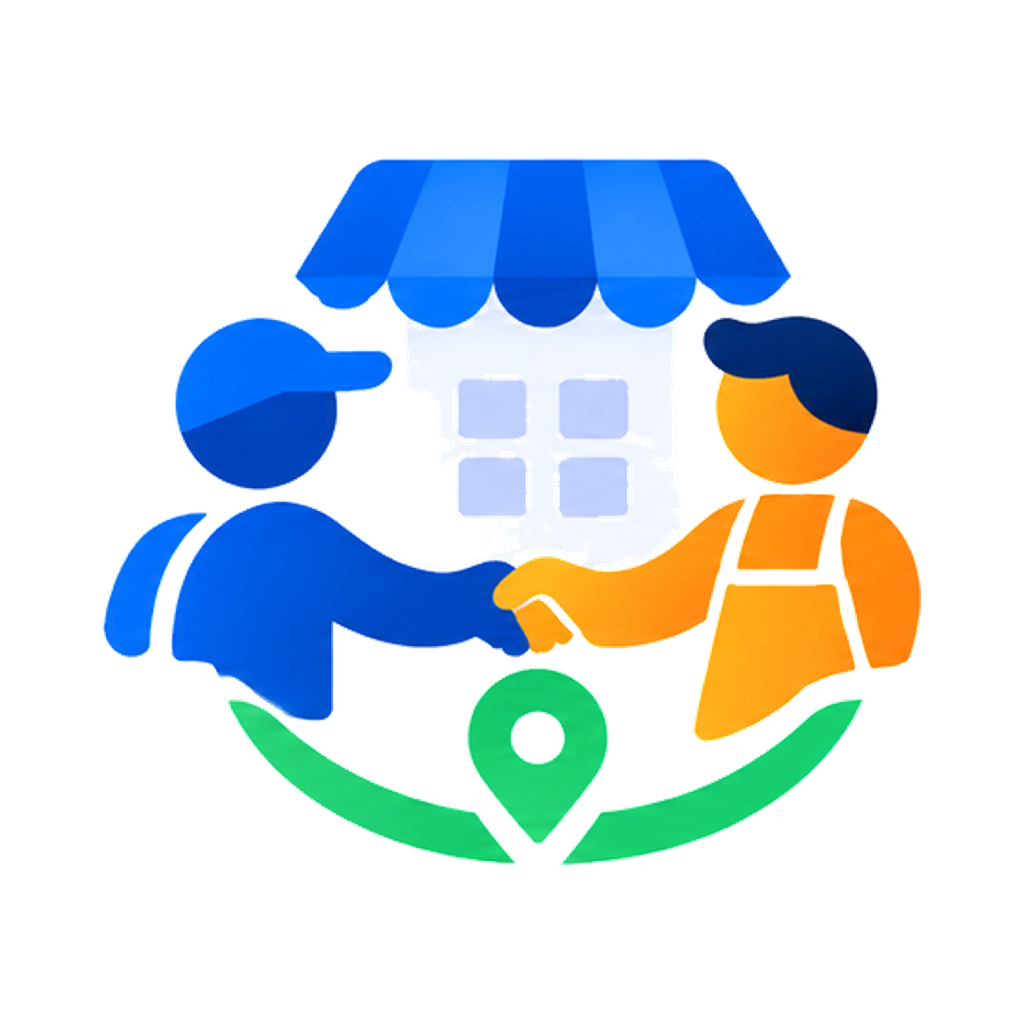
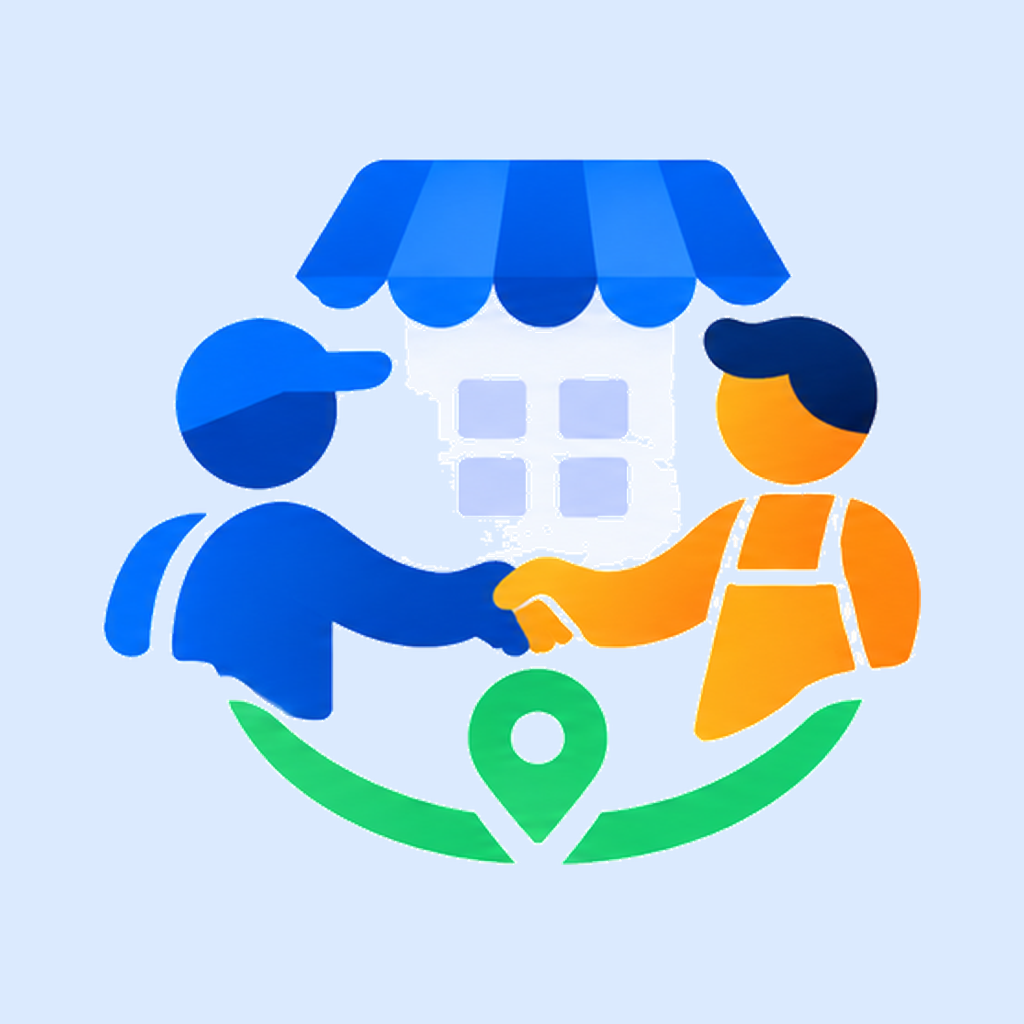
Show the experience the worker was asked for
The worker is asked during onboarding - years, or "I am starting out" -
and the employer's applicant list showed nothing. The card asked for
experienceYears and the applications endpoint never sent it, so every
applicant row was blank and an employer scanning candidates had to open
each one to learn anything about them.

The list now carries what the worker does, how long, and whether they are
a fresher. The card reads both shapes, because the recommended list calls
it experienceYears and applications calls it workerExperienceYears and it
only ever understood the first.

Zero years now reads "Fresher" on both screens. "0 yr exp" looks like a
missing value and gets skimmed past; one is a person starting out, which
is a different thing from an employer not being told.

Also fixes two things found by running the app on a device rather than
reading it: the schedule step crashed outright with "Property
'daysBetween' doesn't exist" - the date-range helpers were written but
never landed in the file, and a bundler does not catch an undefined
identifier - and a saved address grew every time it was reopened, because
the stored one-line address went back into the street field and the
locality, town and PIN were appended to it again.

diff --git a/workspace/employer-mobile/src/screens/applicants/ApplicantCard.js b/workspace/employer-mobile/src/screens/applicants/ApplicantCard.js
@@ -6,6 +6,21 @@ import { colors, radius, space } from '../../theme'
 import { word } from '../../ui/words'
 
 /** One applicant, as they appear in every list on this side of the product. */
+/**
+ * Experience in words.
+ *
+ * "Fresher" rather than "0 yr exp": one is a person starting out, the other
+ * reads like a missing value, and an employer skims past the second.
+ */
+function experienceLabel(item) {
+  const fresher = item.fresher ?? item.workerFresher
+  const years = item.experienceYears ?? item.workerExperienceYears
+  if (fresher) return 'Fresher'
+  if (years == null) return null
+  if (years === 0) return 'Fresher'
+  return `${years} yr exp`
+}
+
 export default function ApplicantCard({ item, onPress, onCall, selected, onToggleSelect, t }) {
   const name = item.workerName || item.name
   return (
@@ -25,8 +40,14 @@ export default function ApplicantCard({ item, onPress, onCall, selected, onToggl
             {item.verified ? <Ionicons name="checkmark-circle" size={15} color={colors.green} /> : null}
           </Row>
           <Small numberOfLines={1} style={{ marginTop: 2 }}>
-            {[item.gender, item.age ? `${item.age} yr` : null,
-              item.experienceYears != null ? `${item.experienceYears} yr exp` : null]
+            {/* Two shapes reach this card: the recommended list, which has
+                experienceYears, and the applications list, which names it
+                workerExperienceYears. It read only the first, so applicants
+                showed no experience at all. */}
+            {[item.jobTitle || item.workerJobTitle,
+              item.gender,
+              item.age ? `${item.age} yr` : null,
+              experienceLabel(item)]
               .filter(Boolean).join(' · ')}
           </Small>
           <Row gap={space.md} style={{ marginTop: 6, flexWrap: 'wrap' }}>

diff --git a/workspace/employer-mobile/src/location/geocode.js b/workspace/employer-mobile/src/location/geocode.js
@@ -25,13 +25,26 @@ export const emptyAddress = () => ({
   city: '', state: '', pincode: '', latitude: null, longitude: null,
 })
 
-/** Joins the parts that are present, so no screen prints ", , Tirupati". */
+/**
+ * Joins the parts that are present, so no screen prints ", , Tirupati".
+ *
+ * A part already contained in what has been written is skipped. The stored
+ * address is one line, and editing a saved place puts that whole line back
+ * into the street field - so appending the locality, town and PIN again
+ * grew the address every time it was saved, until it read
+ * "…Tirupati, 560102, Naidupeta, Tirupati, 560102, Naidupeta, Tirupati".
+ */
 export function formatAddress(a) {
   if (!a) return ''
-  return [a.doorNo, a.building, a.street, a.locality, a.city, a.pincode]
-    .map((x) => String(x || '').trim())
-    .filter(Boolean)
-    .join(', ')
+  const out = []
+  for (const part of [a.doorNo, a.building, a.street, a.locality, a.city, a.pincode]) {
+    const v = String(part || '').trim()
+    if (!v) continue
+    const seen = out.join(', ').toLowerCase()
+    if (seen.includes(v.toLowerCase())) continue
+    out.push(v)
+  }
+  return out.join(', ')
 }
 
 /** Where the phone is, as an address rather than two numbers. */

diff --git a/workspace/worker-mobile/src/location/geocode.js b/workspace/worker-mobile/src/location/geocode.js
@@ -25,13 +25,26 @@ export const emptyAddress = () => ({
   city: '', state: '', pincode: '', latitude: null, longitude: null,
 })
 
-/** Joins the parts that are present, so no screen prints ", , Tirupati". */
+/**
+ * Joins the parts that are present, so no screen prints ", , Tirupati".
+ *
+ * A part already contained in what has been written is skipped. The stored
+ * address is one line, and editing a saved place puts that whole line back
+ * into the street field - so appending the locality, town and PIN again
+ * grew the address every time it was saved, until it read
+ * "…Tirupati, 560102, Naidupeta, Tirupati, 560102, Naidupeta, Tirupati".
+ */
 export function formatAddress(a) {
   if (!a) return ''
-  return [a.doorNo, a.building, a.street, a.locality, a.city, a.pincode]
-    .map((x) => String(x || '').trim())
-    .filter(Boolean)
-    .join(', ')
+  const out = []
+  for (const part of [a.doorNo, a.building, a.street, a.locality, a.city, a.pincode]) {
+    const v = String(part || '').trim()
+    if (!v) continue
+    const seen = out.join(', ').toLowerCase()
+    if (seen.includes(v.toLowerCase())) continue
+    out.push(v)
+  }
+  return out.join(', ')
 }
 
 /** Where the phone is, as an address rather than two numbers. */

diff --git a/workspace/employer-mobile/src/screens/post/steps.js b/workspace/employer-mobile/src/screens/post/steps.js
@@ -22,6 +22,30 @@ function dateOf(text) {
   return Number.isNaN(out.getTime()) ? undefined : out
 }
 
+/**
+ * The longest "a few days" or "a few weeks" may run.
+ *
+ * Past a month it is monthly work, and the rules that follow from that - a
+ * salary rather than a day rate, paid on a cycle, attendance that does not
+ * need confirming one day at a time - are the ones that should apply.
+ */
+export const MAX_SHORT_DAYS = 31
+
+/** Inclusive, so Monday to Monday is eight days of work, not seven. */
+export function daysBetween(startText, endText) {
+  const a = dateOf(startText)
+  const b = dateOf(endText)
+  if (!a || !b) return 0
+  return Math.round((b - a) / 86400000) + 1
+}
+
+/** The latest end date the picker will offer for short work. */
+export function lastAllowed(startText) {
+  const a = dateOf(startText)
+  if (!a) return undefined
+  return new Date(a.getTime() + (MAX_SHORT_DAYS - 1) * 86400000)
+}
+
 const Head = ({ title, sub }) => (
   <View style={{ marginBottom: space.lg }}>
     <H2>{title}</H2>

diff --git a/workspace/employer-mobile/src/screens/applicants/ApplicantProfile.js b/workspace/employer-mobile/src/screens/applicants/ApplicantProfile.js
@@ -127,7 +127,9 @@ export default function ApplicantProfile({ navigation, route }) {
             <Card>
               {worker.age ? <KV k="Age" v={`${worker.age} years`} /> : null}
               <KV k={t('applicants.profileExperience')}
-                v={worker.experienceYears != null ? `${worker.experienceYears} years` : '—'} />
+                v={worker.fresher || worker.experienceYears === 0
+                  ? 'Fresher'
+                  : (worker.experienceYears != null ? `${worker.experienceYears} years` : '—')} />
               <KV k={t('post.languages')} v={(worker.languages || []).join(', ') || '—'} />
               <KV k={t('applicants.distanceAway')} v={distance(worker.distanceKm) || '—'} />
               <KV k={t('applicants.expectedPay')}

diff --git a/workspace/backend/src/main/java/com/skillbridge/dto/ApplicationDto.java b/workspace/backend/src/main/java/com/skillbridge/dto/ApplicationDto.java
@@ -15,6 +15,16 @@ public record ApplicationDto(
         String businessName,
         Long workerId,
         String workerName,
+        /**
+         * What the worker does and for how long.
+         *
+         * The applicant list showed a blank where experience should be: the
+         * card asked for it and this never carried it, so an employer
+         * scanning applicants had to open each one to learn anything.
+         */
+        String workerJobTitle,
+        Integer workerExperienceYears,
+        Boolean workerFresher,
         String coverMessage,
         ApplicationStatus status,
         LocalDateTime appliedAt,
@@ -29,6 +39,11 @@ public record ApplicationDto(
                 a.getJob().getEmployer().getProfile() != null
                         ? a.getJob().getEmployer().getProfile().getBusinessName() : null,
                 a.getWorker().getId(), a.getWorker().getName(),
+                a.getWorker().getProfile() == null ? null : a.getWorker().getProfile().getJobTitle(),
+                a.getWorker().getProfile() == null ? null
+                        : a.getWorker().getProfile().getExperienceYears(),
+                a.getWorker().getProfile() == null ? null
+                        : a.getWorker().getProfile().isFresher(),
                 a.getCoverMessage(), a.getStatus(), a.getAppliedAt(), matchScore,
                 a.getInterviewResult(), a.getInterviewFeedback());
     }
